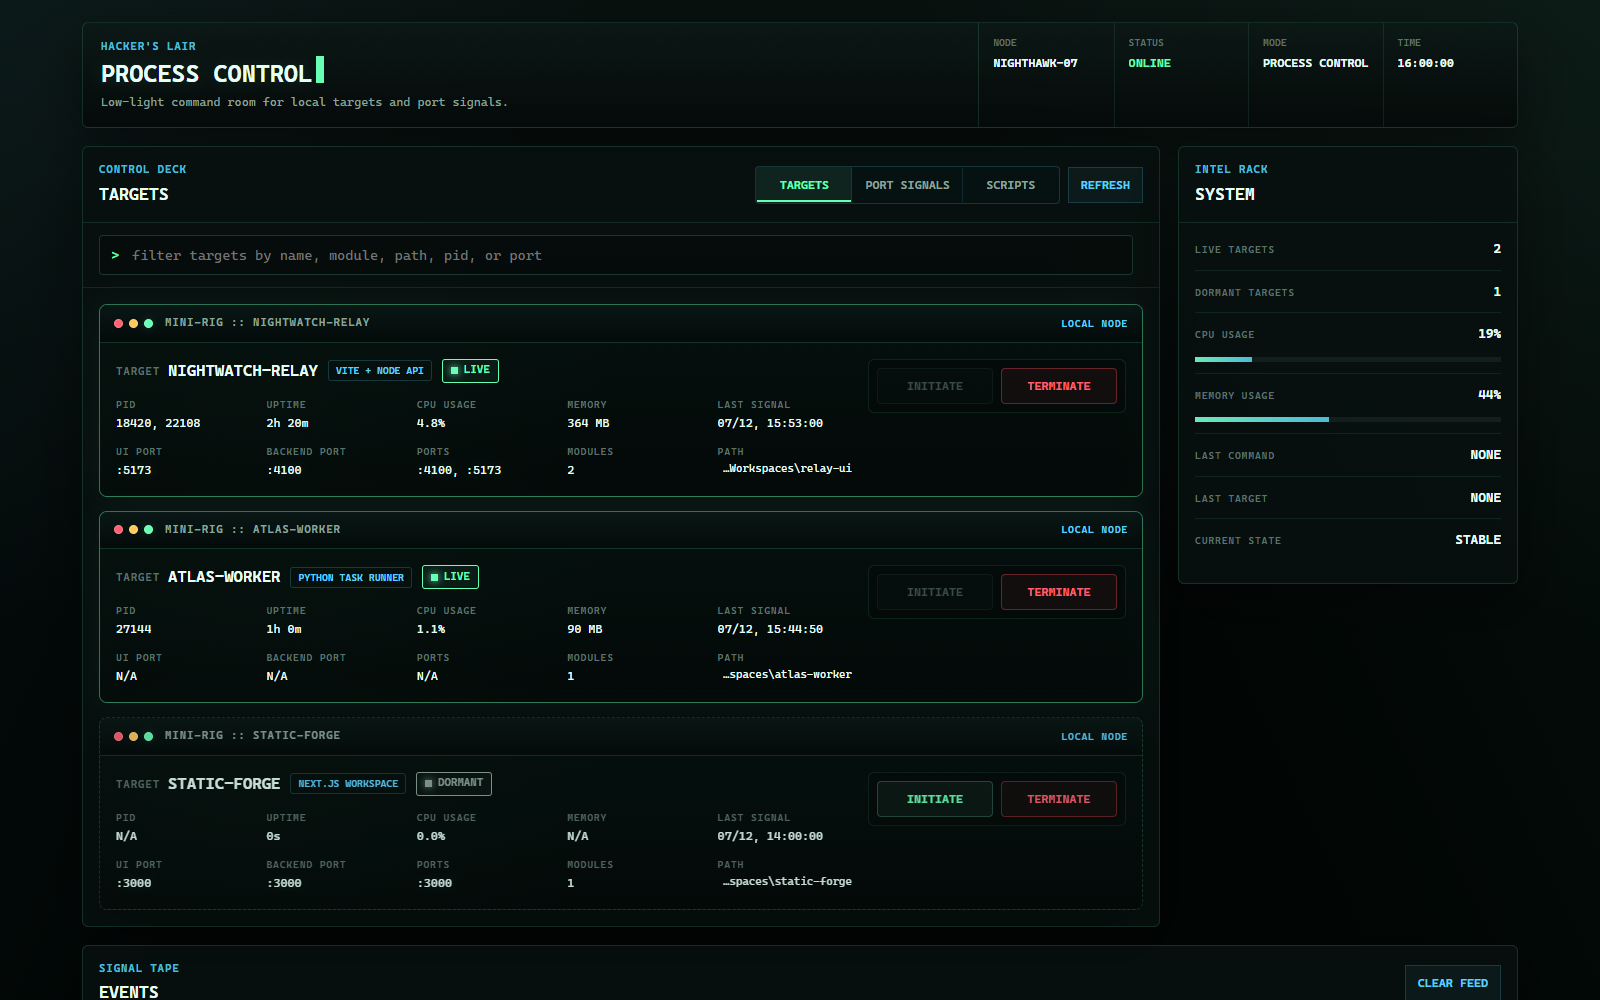
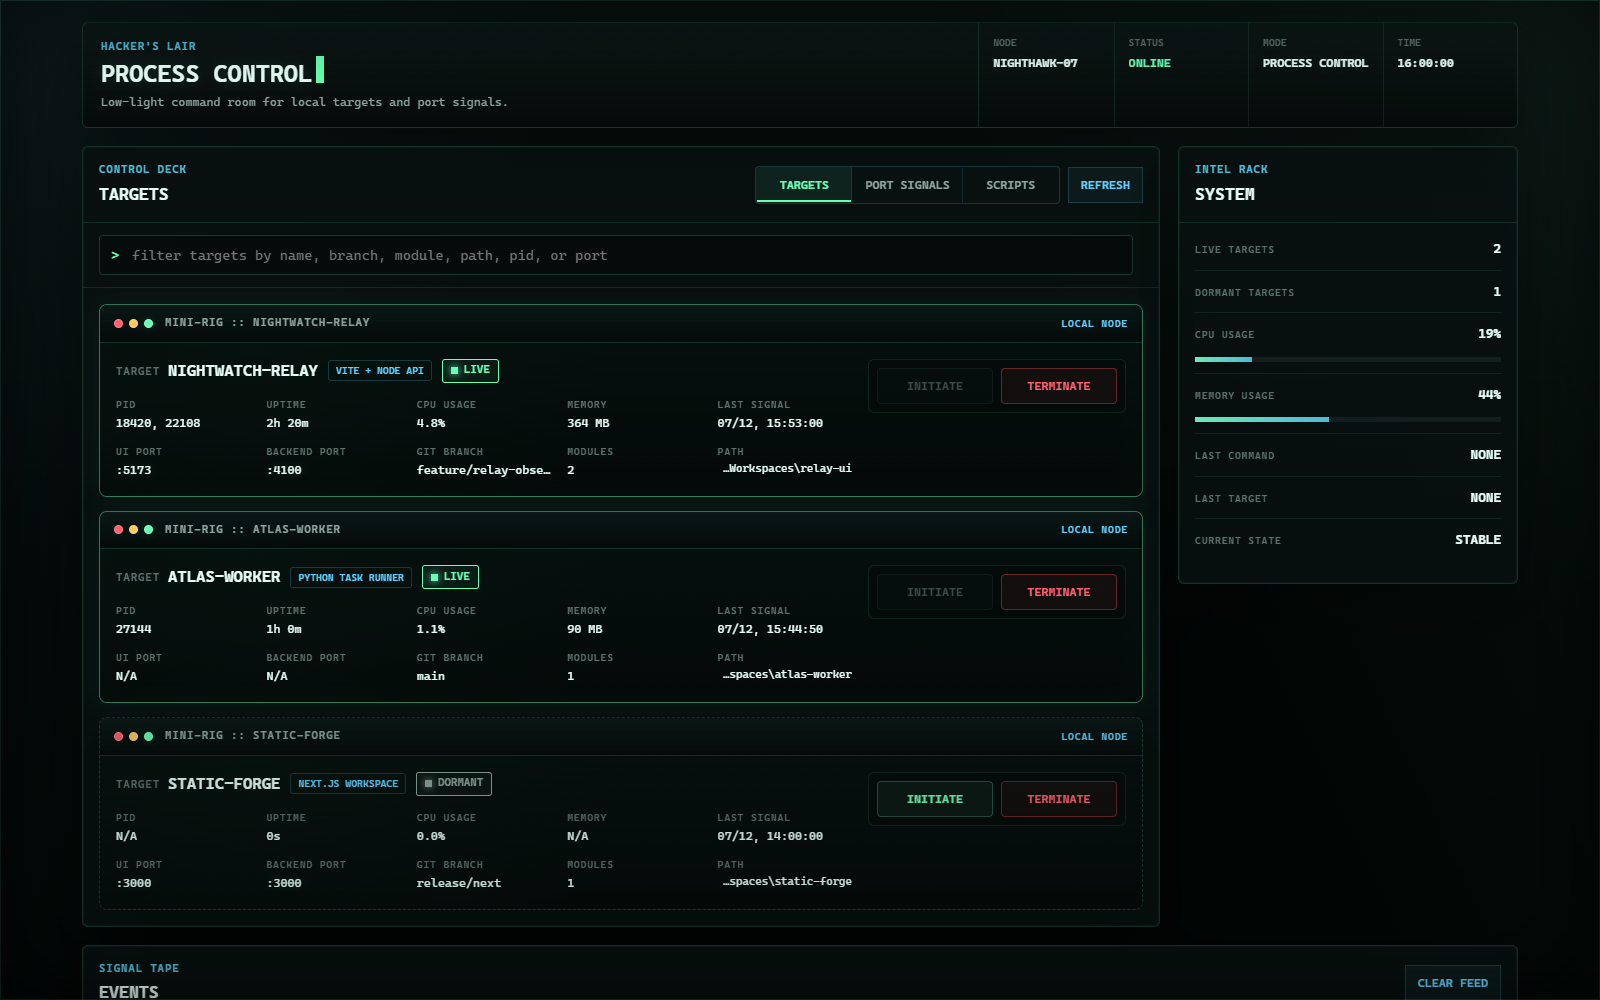
docs: show target branch metadata

diff --git a/scripts/capture-readme-screenshots.js b/scripts/capture-readme-screenshots.js
@@ -14,9 +14,9 @@ const component = (name, role, port, running, pid) => ({
   uptimeSeconds: running ? 8421 : null, lastActionAt: now - 420000, livePorts: running ? [port] : [],
 });
 const projects = [
-  { name: 'nightwatch-relay', type: 'Vite + Node API', components: [component('relay-ui', 'frontend', 5173, true, 18420), component('relay-api', 'backend', 4100, true, 22108)], running: true, partial: false, errored: false, starting: false, pids: [18420, 22108], memKB: 372480, cpuPercent: 4.8, uptimeSeconds: 8421, lastActionAt: now - 420000 },
-  { name: 'atlas-worker', type: 'Python task runner', components: [component('atlas-worker', 'headless', null, true, 27144)], running: true, partial: false, errored: false, starting: false, pids: [27144], memKB: 92160, cpuPercent: 1.1, uptimeSeconds: 3644, lastActionAt: now - 910000 },
-  { name: 'static-forge', type: 'Next.js workspace', components: [component('static-forge', 'fullstack', 3000, false)], running: false, partial: false, errored: false, starting: false, pids: [], memKB: 0, cpuPercent: null, uptimeSeconds: null, lastActionAt: now - 7200000 },
+  { name: 'nightwatch-relay', type: 'Vite + Node API', gitBranches: ['feature/relay-observability'], components: [component('relay-ui', 'frontend', 5173, true, 18420), component('relay-api', 'backend', 4100, true, 22108)], running: true, partial: false, errored: false, starting: false, pids: [18420, 22108], memKB: 372480, cpuPercent: 4.8, uptimeSeconds: 8421, lastActionAt: now - 420000 },
+  { name: 'atlas-worker', type: 'Python task runner', gitBranches: ['main'], components: [component('atlas-worker', 'headless', null, true, 27144)], running: true, partial: false, errored: false, starting: false, pids: [27144], memKB: 92160, cpuPercent: 1.1, uptimeSeconds: 3644, lastActionAt: now - 910000 },
+  { name: 'static-forge', type: 'Next.js workspace', gitBranches: ['release/next'], components: [component('static-forge', 'fullstack', 3000, false)], running: false, partial: false, errored: false, starting: false, pids: [], memKB: 0, cpuPercent: null, uptimeSeconds: null, lastActionAt: now - 7200000 },
 ];
 const processes = [
   { pid: 18420, name: 'node.exe', label: 'Nightwatch UI', cmd: 'node vite.js', exePath: 'C:\\Program Files\\nodejs\\node.exe', cwd: 'C:\\Workspaces\\nightwatch-relay', memKB: 186240, uptimeSeconds: 8421, cpuPercent: 2.4, self: false, protected: false, system: false, ports: [{ port: 5173, addresses: ['127.0.0.1'] }] },

diff --git a/README.md b/README.md
@@ -42,7 +42,7 @@ window controls, and scrollbar. The control service listens only on
 
 | Surface | What it controls |
 |---|---|
-| **Targets** | Starts or stops every configured component of a project as one unit, while retaining component-level status and logs. |
+| **Targets** | Starts or stops every configured component of a project as one unit, while showing component status, the checked-out Git branch, and logs. |
 | **Port Signals** | Shows listening localhost ports, labels known development servers, stops processes, and relaunches processes previously stopped by the console. |
 | **Scripts** | Discovers configured AutoIt scripts live and starts or stops them from the same interface. |
 | **Intel Rack** | Tracks live and dormant targets, CPU and memory pressure, recent commands, and current control state. |
